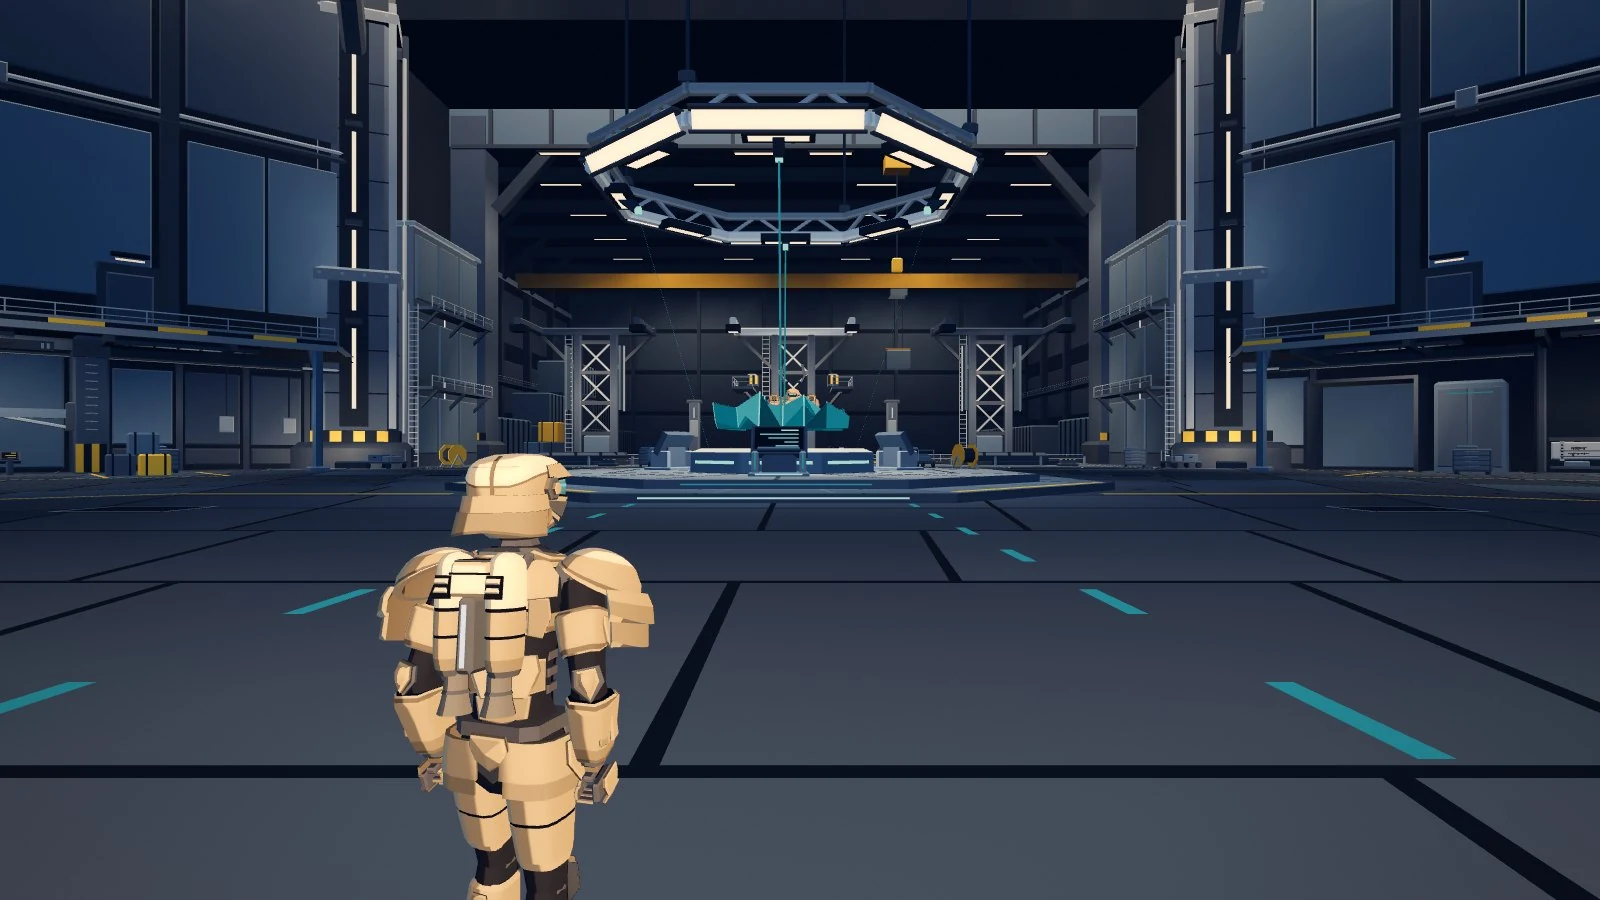
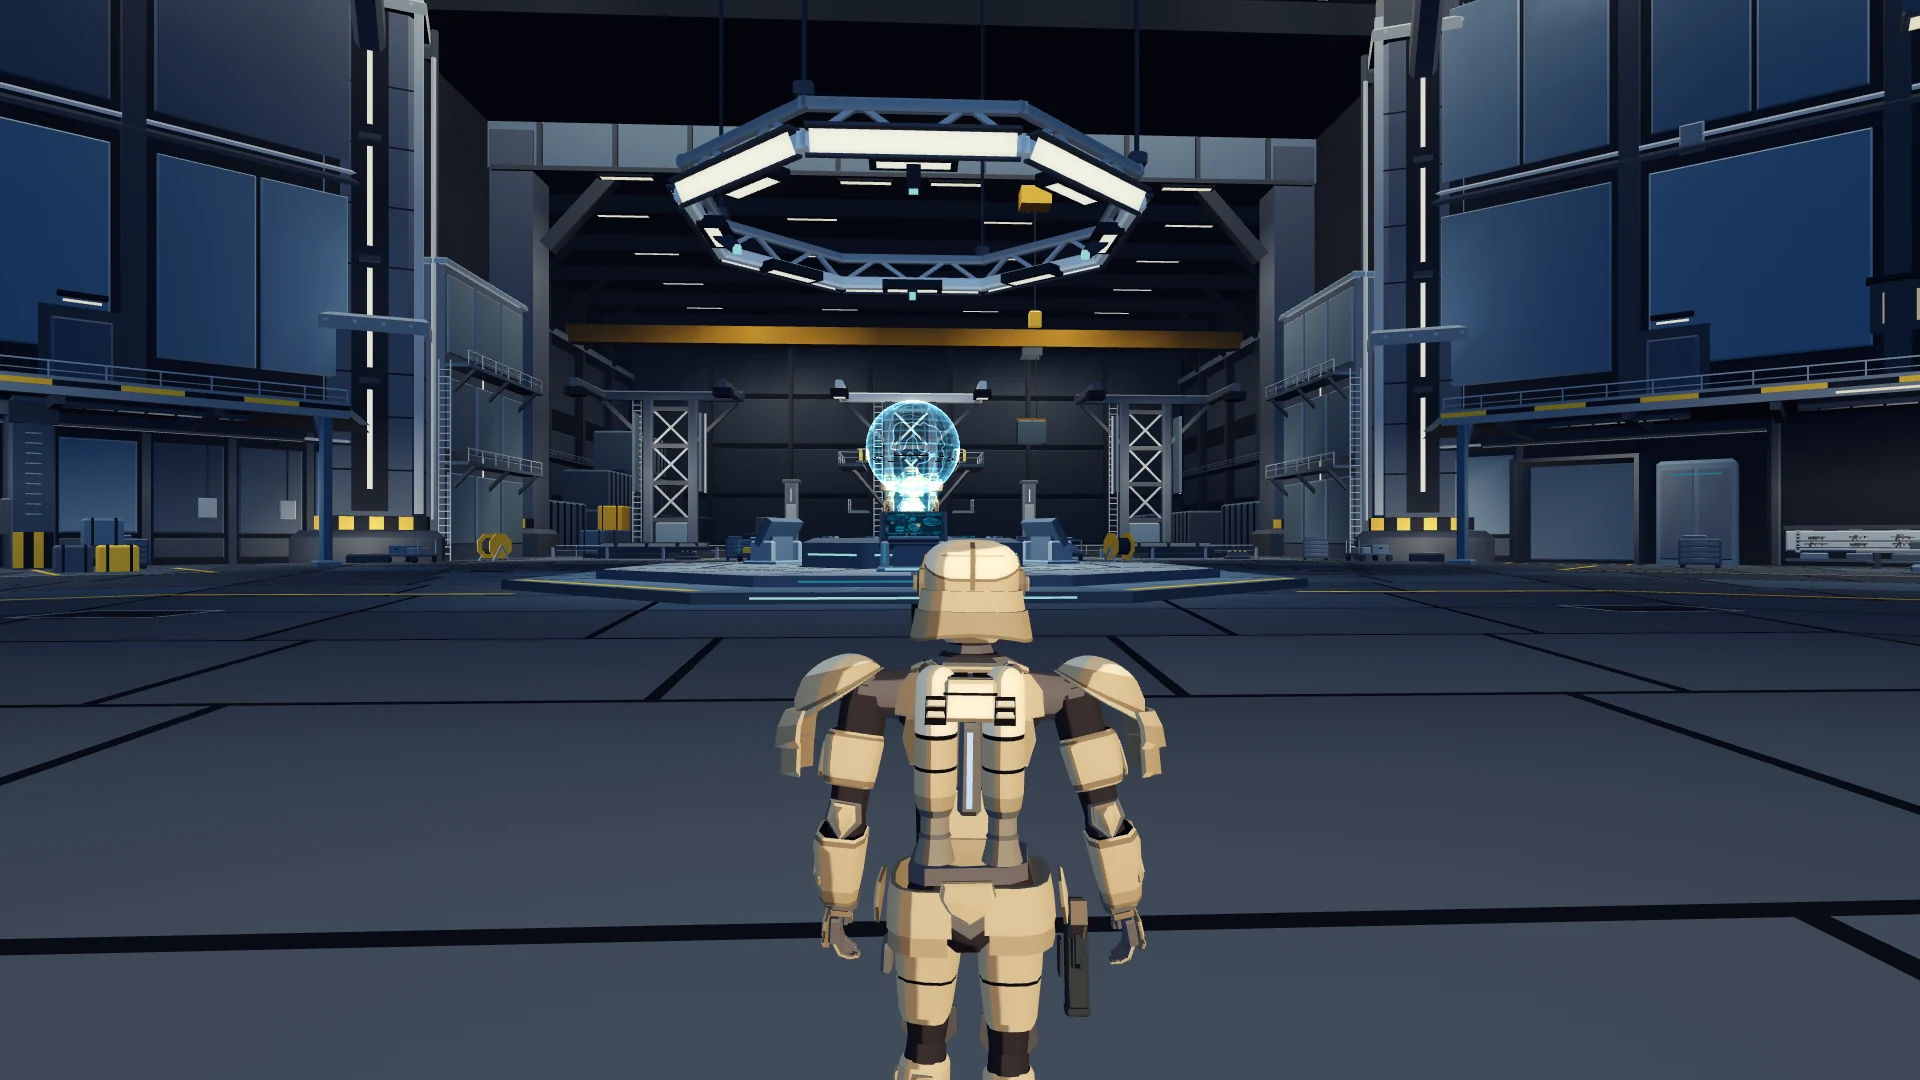
review page v206: Steel Tide: to review

diff --git a/d/steel-tide-clips-bb00109a/index.html b/d/steel-tide-clips-bb00109a/index.html
@@ -4,8 +4,8 @@
 <style>body{margin:0;background:#0d1117;color:#e6edf3;font:16px/1.5 -apple-system,system-ui,sans-serif}main{max-width:900px;margin:0 auto;padding:16px}h1{font-size:20px;margin:8px 0 4px}h2{font-size:17px;margin:34px 0 6px}p{margin:4px 0 10px;color:#9da7b3;font-size:14px}video,img{width:100%;height:auto;background:#000;border-radius:6px;display:block;margin-top:6px}a.b{display:inline-block;margin:8px 8px 0 0;padding:10px 14px;border:1px solid #3d444d;border-radius:6px;color:#e6edf3;text-decoration:none;font-size:14px}.t{font-size:12px;font-weight:400;color:#0d1117;background:#9da7b3;border-radius:10px;padding:2px 8px;margin-left:6px;vertical-align:middle}p.d{color:#7cb7ff;font-size:13px;margin:0 0 6px}nav small{color:#9da7b3;margin-left:6px}p b{color:#e6edf3}nav a{display:block;padding:7px 0;color:#7cb7ff;text-decoration:none;font-size:14px;border-bottom:1px solid #21262d}a.z{display:block;cursor:zoom-in}p.h{font-size:12px;margin:2px 0 8px}#lb{position:fixed;inset:0;background:#000;z-index:9;overflow:auto;display:none;cursor:zoom-in}#lb.on{display:block}#lb img{width:100%;height:100%;object-fit:contain;margin:0;border-radius:0;background:#000}#lb.big{cursor:zoom-out}#lb.big img{width:auto;height:auto;max-width:none;object-fit:none}#lbx{position:fixed;top:10px;right:14px;z-index:10;display:none;font:600 15px system-ui;color:#fff;background:#21262d;border:1px solid #3d444d;border-radius:6px;padding:8px 12px;cursor:pointer}#lb.on+#lbx{display:block}</style></head>
 <body><main>
 <h1>Steel Tide: to review</h1>
-<p>Version 205, 11-21 2:12 PM. Cleaned: only current items. Clips made before the new Petrel (M381) were removed; a fresh full outro clip from the live build is being made. Newest first. Total 25.3 MB.</p>
-<nav><a href="#sand-sun-glow">Desert sand: the sun&#x27;s reflection, like the ocean <small>11-21 9:45 PM</small></a><a href="#no-black-preload">Mission start: no black screen before the flight <small>11-21 5:05 PM</small></a><a href="#hangar-style-anchor">Hangar look: attach this to the ChatGPT prop prompts <small>11-21 2:30 PM</small></a><a href="#petrel-wing-engine-redesign">Petrel: tiltwing + airstair <small>11-21 2:30 PM</small></a><a href="#roll-chevrons-removed">Old roll and floor dashes removed <small>11-21 1:50 PM</small></a><a href="#desert-sand-r13-wip">Desert sand round 20 <small>11-21 1:02 PM</small></a><a href="#elevator-pilot-light">Station lift: the pilot goes dark with the ship <small>11-21 1:02 PM</small></a><a href="#petrel-airstair">Petrel: folding airstairs <small>11-21 1:02 PM</small></a><a href="#unit-ground-shadows">Unit ground shadows back on <small>11-21 1:02 PM</small></a><a href="#extract-control-early">Extraction ending: control comes back as the hatch opens <small>11-21 1:02 PM</small></a><a href="#mech-hand-cannons">Mech hand cannons: pull uses the Singularity look (waits for your yes) <small>11-21 1:02 PM</small></a><a href="#pilot-walk-sway">Pilot walk: half the side-to-side sway (before / after) <small>11-21 12:44 PM</small></a><a href="#dawn-time-of-day-preview">Dawn, a second time of day: for your yes or no (not in the game) <small>11-21 3:33 AM</small></a><a href="#weapon-icons-round-3">Weapon icons round 3: stylized from the real weapons, two directions <small>11-20 10:55 PM</small></a><a href="#desert-sand-direction">Desert sand: today against real sand (pick a direction) <small>11-20 10:51 PM</small></a><a href="#boss-shading-which-part">Your 8:00 PM report: which part of the boss looked wrong? <small>11-20 10:51 PM</small></a><a href="#new-mech-3d-r2">New mech: first 3D model from your sheet <small>11-19 11:21 PM</small></a><a href="#tactician-r2-s302-clean">Tactician pilot: your pick, smudges cleaned (ready to wire) <small>11-19 10:24 PM</small></a><a href="#vanguard-r2-s302">Vanguard pilot: your pick, six fingers fixed (ready to wire) <small>11-19 10:24 PM</small></a><a href="#cradle-drop-launch-r4">NEEDS YOUR PICK: the drop cannon&#x27;s size on the Cradle (three sizes), with its back hidden and navy colour <small>11-18 7:43 PM</small></a><a href="#horde-pilot-zoom">NEEDS YOUR CALL: island Horde, camera zooms in when you are on foot <small>11-17 1:30 PM</small></a></nav>
+<p>Version 206, 11-21 2:16 PM. Cleaned: only current items. Clips made before the new Petrel (M381) were removed; a fresh full outro clip from the live build is being made. Newest first. Total 25.7 MB.</p>
+<nav><a href="#sand-sun-glow">Desert sand: the sun&#x27;s reflection, like the ocean <small>11-21 9:45 PM</small></a><a href="#no-black-preload">Mission start: no black screen before the flight <small>11-21 5:05 PM</small></a><a href="#petrel-wing-engine-redesign">Petrel: tiltwing + airstair <small>11-21 2:30 PM</small></a><a href="#hangar-style-anchor">Hangar look today (M386): attach to the ChatGPT prop prompt <small>11-21 2:15 PM</small></a><a href="#roll-chevrons-removed">Old roll and floor dashes removed <small>11-21 1:50 PM</small></a><a href="#desert-sand-r13-wip">Desert sand round 20 <small>11-21 1:02 PM</small></a><a href="#elevator-pilot-light">Station lift: the pilot goes dark with the ship <small>11-21 1:02 PM</small></a><a href="#petrel-airstair">Petrel: folding airstairs <small>11-21 1:02 PM</small></a><a href="#unit-ground-shadows">Unit ground shadows back on <small>11-21 1:02 PM</small></a><a href="#extract-control-early">Extraction ending: control comes back as the hatch opens <small>11-21 1:02 PM</small></a><a href="#mech-hand-cannons">Mech hand cannons: pull uses the Singularity look (waits for your yes) <small>11-21 1:02 PM</small></a><a href="#pilot-walk-sway">Pilot walk: half the side-to-side sway (before / after) <small>11-21 12:44 PM</small></a><a href="#dawn-time-of-day-preview">Dawn, a second time of day: for your yes or no (not in the game) <small>11-21 3:33 AM</small></a><a href="#weapon-icons-round-3">Weapon icons round 3: stylized from the real weapons, two directions <small>11-20 10:55 PM</small></a><a href="#desert-sand-direction">Desert sand: today against real sand (pick a direction) <small>11-20 10:51 PM</small></a><a href="#boss-shading-which-part">Your 8:00 PM report: which part of the boss looked wrong? <small>11-20 10:51 PM</small></a><a href="#new-mech-3d-r2">New mech: first 3D model from your sheet <small>11-19 11:21 PM</small></a><a href="#tactician-r2-s302-clean">Tactician pilot: your pick, smudges cleaned (ready to wire) <small>11-19 10:24 PM</small></a><a href="#vanguard-r2-s302">Vanguard pilot: your pick, six fingers fixed (ready to wire) <small>11-19 10:24 PM</small></a><a href="#cradle-drop-launch-r4">NEEDS YOUR PICK: the drop cannon&#x27;s size on the Cradle (three sizes), with its back hidden and navy colour <small>11-18 7:43 PM</small></a><a href="#horde-pilot-zoom">NEEDS YOUR CALL: island Horde, camera zooms in when you are on foot <small>11-17 1:30 PM</small></a></nav>
 <section id="sand-sun-glow"><h2>Desert sand: the sun&#x27;s reflection, like the ocean <span class="t">built, not live (round 3)</span></h2>
 <p class="d">Updated 11-21 9:45 PM ET &middot; captured from lane build (viewer export, Walking in sand row, camera turned to face the low sun; BEFORE = the glare switch off, AFTER = round 3 on, same 6.0 s mark)</p>
 <p><b>What changed:</b> Round 3: the glare toward the sun is twice as strong and reaches the near sand, and each sand ripple face turned to the sun now catches a bright gold line, with the faces turned away darker between them. Round 2 looked almost the same as before; this one does not. Nothing changes side-on, facing away, or with the sun behind you.</p>
@@ -22,17 +22,19 @@
 <video controls playsinline muted preload="none" poster="no-black-preload-1.webp" data-fb="no-black-preload"><source src="no-black-preload.mp4" type="video/mp4"></video>
 <div class="fb" data-id="no-black-preload" data-title="Mission start: no black screen before the flight"><p class="h">Pause the video at any moment to write a note for that second.</p><div class="fbbox" hidden><b class="fbt"></b><textarea rows="3" placeholder="Your feedback at this moment"></textarea><button class="fbsave">Save and keep playing</button><button class="fbcancel">Cancel</button></div><ol class="fblist"></ol><button class="fbexp">Export feedback</button><div class="fbout" hidden><textarea rows="8" readonly></textarea><button class="fbcopy">Copy</button><span class="fbok"></span></div></div>
 <a class="b" href="no-black-preload.mp4">Open the video on its own (2.7 MB)</a></section>
-<section id="hangar-style-anchor"><h2>Hangar look: attach this to the ChatGPT prop prompts <span class="t">reference (the live hangar, before the teal floor dashes were removed)</span></h2>
-<p class="d">Updated 11-21 2:30 PM ET &middot; captured from live hangar, M229 era</p>
-<p><b>What changed:</b> Style anchor for the prop refine prompts: our clean low-poly look, slate-navy panels, yellow-black hazard trim, teal glow.</p>
-<p><b>Where to look:</b> Whole frame: flat clean surfaces, chunky shapes, no grime; that is what the props must match.</p>
-<a class="z" href="hangar-style-anchor-1-full.webp"><img loading="lazy" src="hangar-style-anchor-1.webp" alt="Hangar look: attach this to the ChatGPT prop prompts"></a><p class="h">Click the image for full screen, click again for full size.</p></section>
 <section id="petrel-wing-engine-redesign"><h2>Petrel: tiltwing + airstair <span class="t">live M381. Clip REMOVED: it used the old slow fly-away outro and showed jet flames off the engines; both being fixed (ruling 2271)</span></h2>
 <p class="d">Updated 11-21 2:30 PM ET &middot; captured from lane build f3a298441a (tiltwing + airstair merged) vs Dock d7deeea3bf</p>
 <p><b>What changed:</b> Now in the real game cameras, with the new airstair merged in: wing and jet tilt as one unit, upright when landed and in the hangar, flat in flight; the stairs clear the jets at every tilt.</p>
 <p><b>Where to look:</b> Sheet: BEFORE left, AFTER right (island landing, hangar walk-out, fly-out). Clip (viewer export, first 10 s): landed 0-4 s, lift-off 5-7 s, flight away 8-10 s; the craft leaves the top of the frame briefly at 6-8 s.</p>
 <a class="z" href="petrel-wing-engine-redesign-1-full.webp"><img loading="lazy" src="petrel-wing-engine-redesign-1.webp" alt="Petrel: tiltwing + airstair"></a><p class="h">Click the image for full screen, click again for full size.</p>
 <a class="z" href="petrel-wing-engine-redesign-2-full.webp"><img loading="lazy" src="petrel-wing-engine-redesign-2.webp" alt="Petrel: tiltwing + airstair"></a><p class="h">Click the image for full screen, click again for full size.</p></section>
+<section id="hangar-style-anchor"><h2>Hangar look today (M386): attach to the ChatGPT prop prompt <span class="t">reference, live build M386</span></h2>
+<p class="d">Updated 11-21 2:15 PM ET &middot; captured from live build ec451b7650</p>
+<p><b>What changed:</b> Three stills of the current hangar: arrival view with the Mission Control globe, the Mech Bay with its mech and gantry, and a wide view of floor, wall panels and props.</p>
+<p><b>Where to look:</b> Clean low-poly slate-navy panels, yellow-black hazard trim, cyan holo globe, plain dark floor with black seams; no teal floor streaks.</p>
+<a class="z" href="hangar-style-anchor-1-full.webp"><img loading="lazy" src="hangar-style-anchor-1.webp" alt="Hangar look today (M386): attach to the ChatGPT prop prompt"></a><p class="h">Click the image for full screen, click again for full size.</p>
+<a class="z" href="hangar-style-anchor-2-full.webp"><img loading="lazy" src="hangar-style-anchor-2.webp" alt="Hangar look today (M386): attach to the ChatGPT prop prompt"></a><p class="h">Click the image for full screen, click again for full size.</p>
+<a class="z" href="hangar-style-anchor-3-full.webp"><img loading="lazy" src="hangar-style-anchor-3.webp" alt="Hangar look today (M386): attach to the ChatGPT prop prompt"></a><p class="h">Click the image for full screen, click again for full size.</p></section>
 <section id="roll-chevrons-removed"><h2>Old roll and floor dashes removed <span class="t">built, not live</span></h2>
 <p class="d">Updated 11-21 1:50 PM ET &middot; captured from lane build 85e740eb79</p>
 <p><b>What changed:</b> The Settings switch for the old ground roll is gone (the jet dash is the only ground dodge), and the two rows of teal dashes on the hangar floor are removed.</p>
